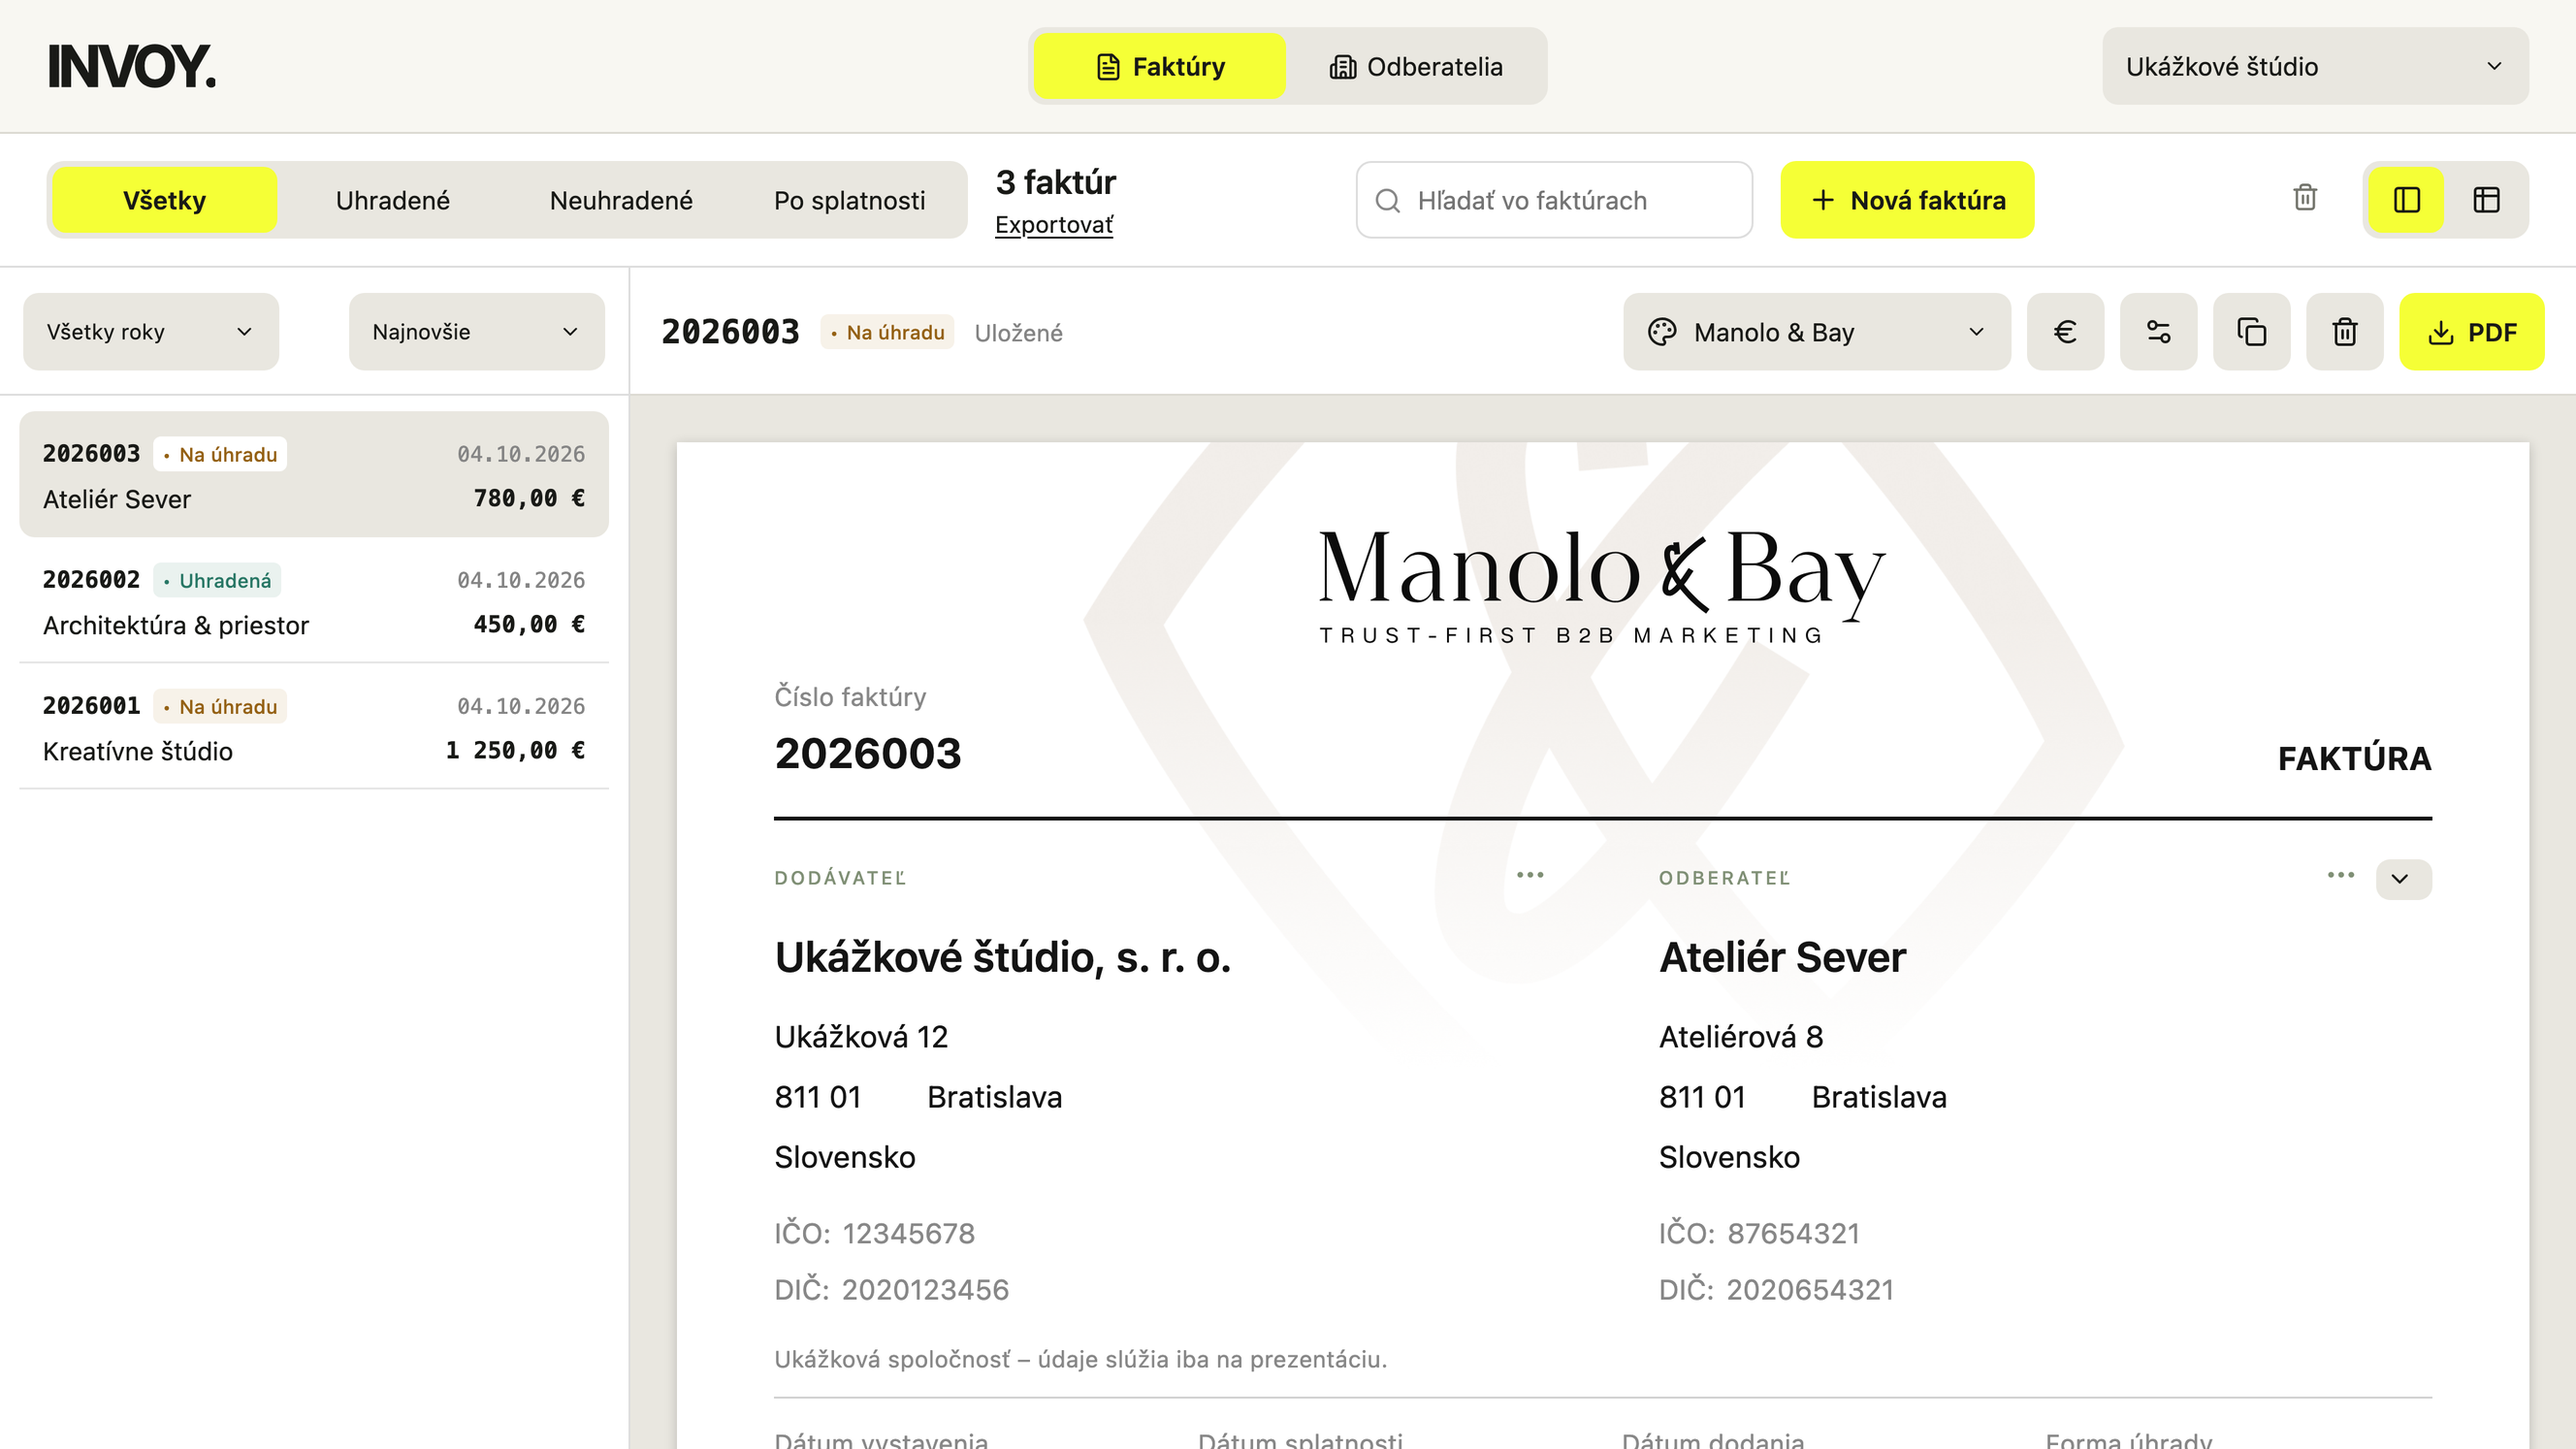
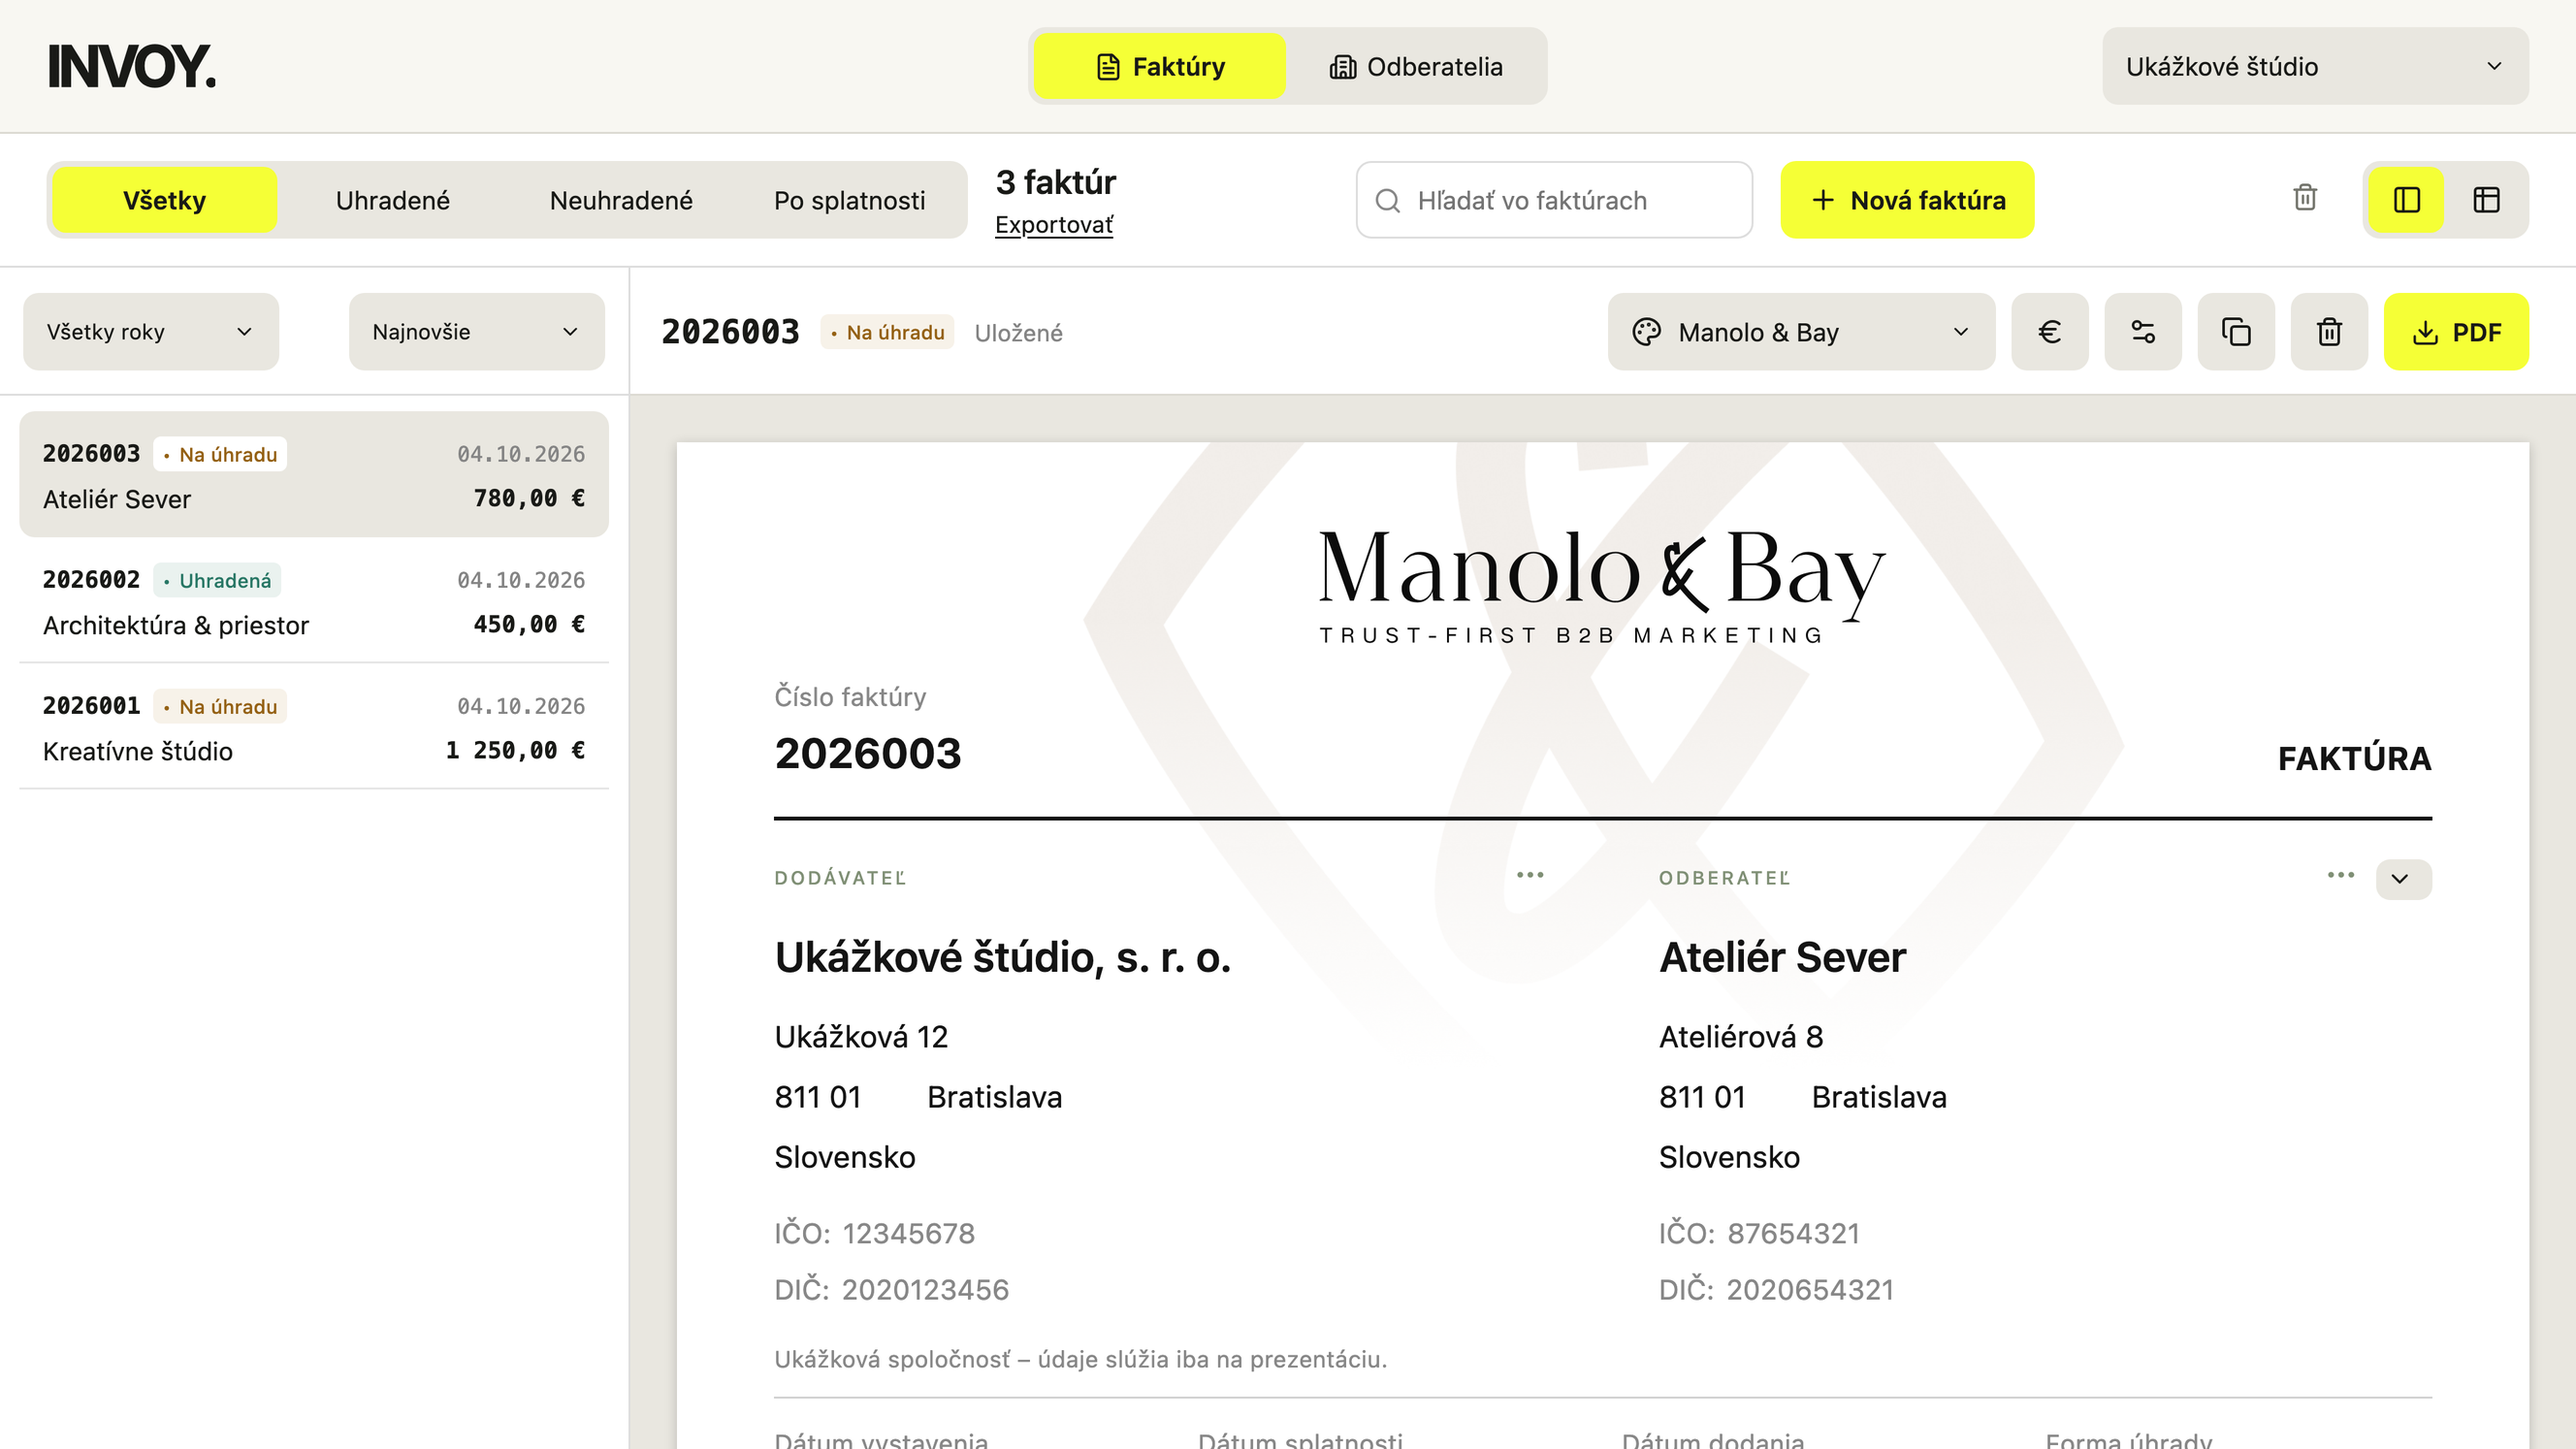
Zarovnať pravé okraje menu účtu, prepínača zobrazenia a PDF

Changed region(s): [[0.75, 0.1847, 1.0, 0.2771], [0.625, 0.2155, 0.7188, 0.2463]]

diff --git a/Sources/INVOY/App.swift b/Sources/INVOY/App.swift
@@ -149,7 +149,7 @@ struct RootView: View {
                     }
                 }.padding(3).background(InvoyBrand.canvas, in: RoundedRectangle(cornerRadius: 10))
                     .frame(width: cloud.user?.role == "admin" ? 420 : 280).accessibilityIdentifier("main-navigation")
-            }.padding(.horizontal, 24).padding(.vertical, 14).background(InvoyBrand.surface)
+            }.padding(.horizontal, InvoyBrand.workspaceInset).padding(.vertical, 14).background(InvoyBrand.surface)
             Divider()
             ZStack {
                 // Keep the invoice workspace mounted so navigation preserves drafts and list filters.
@@ -258,7 +258,7 @@ struct InvoicesView: View {
                     BrandSegment(title: "Zoznam s náhľadom", symbol: "rectangle.split.2x1", selected: !tableMode) { mode.wrappedValue = false }
                     BrandSegment(title: "Tabuľkový zoznam", symbol: "tablecells", selected: tableMode) { mode.wrappedValue = true }
                 }.padding(3).background(InvoyBrand.canvas, in: RoundedRectangle(cornerRadius: 9)).frame(width: 86)
-            }.padding(.horizontal, 24).padding(.vertical, 14)
+            }.padding(.horizontal, InvoyBrand.workspaceInset).padding(.vertical, 14)
             Divider()
             if tableMode {
                 invoiceTable

diff --git a/web/src/app-brand.css b/web/src/app-brand.css
@@ -12,6 +12,7 @@
 .native-shell {
   font-family: -apple-system, BlinkMacSystemFont, sans-serif;
   background: #fff;
+  --workspace-gutter: 24px;
 }
 .native-header {
   display: grid;
@@ -399,6 +400,7 @@
 .native-invoice-toolbar > .native-segments:last-child {
   width: 86px;
   flex-shrink: 0;
+  margin-left: auto;
 }
 .native-invoice-toolbar > .native-segments:last-child button {
   padding-inline: 10px;
@@ -677,5 +679,17 @@
   }
   .original-editor-toolbar .toolbar-actions > :is(select, .brand-select) {
     flex-basis: 100%;
+  }
+}
+
+/* The account menu, view switch and PDF action share one right edge. */
+.native-header,
+.native-invoice-toolbar,
+.original-editor-toolbar {
+  padding-inline-end: var(--workspace-gutter);
+}
+@media (max-width: 900px) {
+  .native-shell {
+    --workspace-gutter: 14px;
   }
 }

diff --git a/Sources/INVOY/Editors.swift b/Sources/INVOY/Editors.swift
@@ -103,7 +103,7 @@ struct InvoiceEditor: View {
                     HStack(spacing: 8) { editorHeading }
                     HStack(spacing: 8) { Spacer(minLength: 0); editorActions }
                 }
-            }.padding(.horizontal, 16).padding(.vertical, 12)
+            }.padding(.leading, 16).padding(.trailing, InvoyBrand.workspaceInset).padding(.vertical, 12)
             InvoyBrand.line.frame(height: 1).accessibilityHidden(true)
             InvoicePaperCanvas(draft: draft)
             if let message = draft.message {

diff --git a/Sources/INVOY/Brand.swift b/Sources/INVOY/Brand.swift
@@ -4,6 +4,7 @@ import AppKit
 /// The same approved palette and vector artwork as the public website.
 enum InvoyBrand {
     static let controlHeight: CGFloat = 40
+    static let workspaceInset: CGFloat = 24
     static let yellow = Color(red: 245 / 255, green: 1, blue: 54 / 255)
     static let ink = Color(red: 25 / 255, green: 26 / 255, blue: 23 / 255)
     static let muted = Color(red: 116 / 255, green: 117 / 255, blue: 109 / 255)
